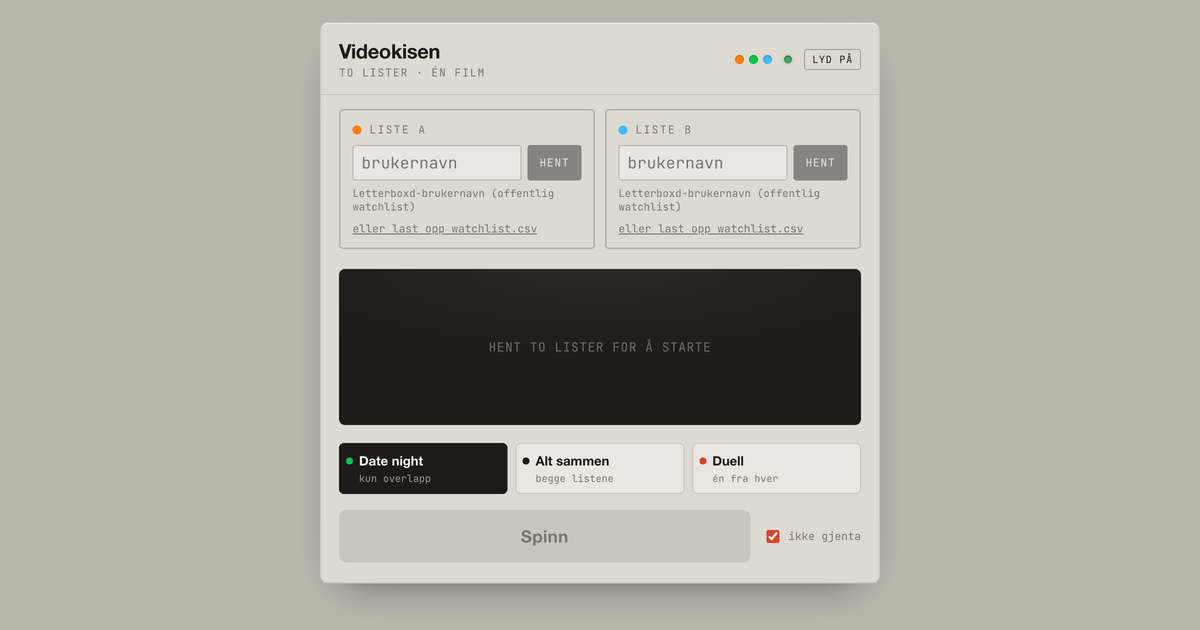
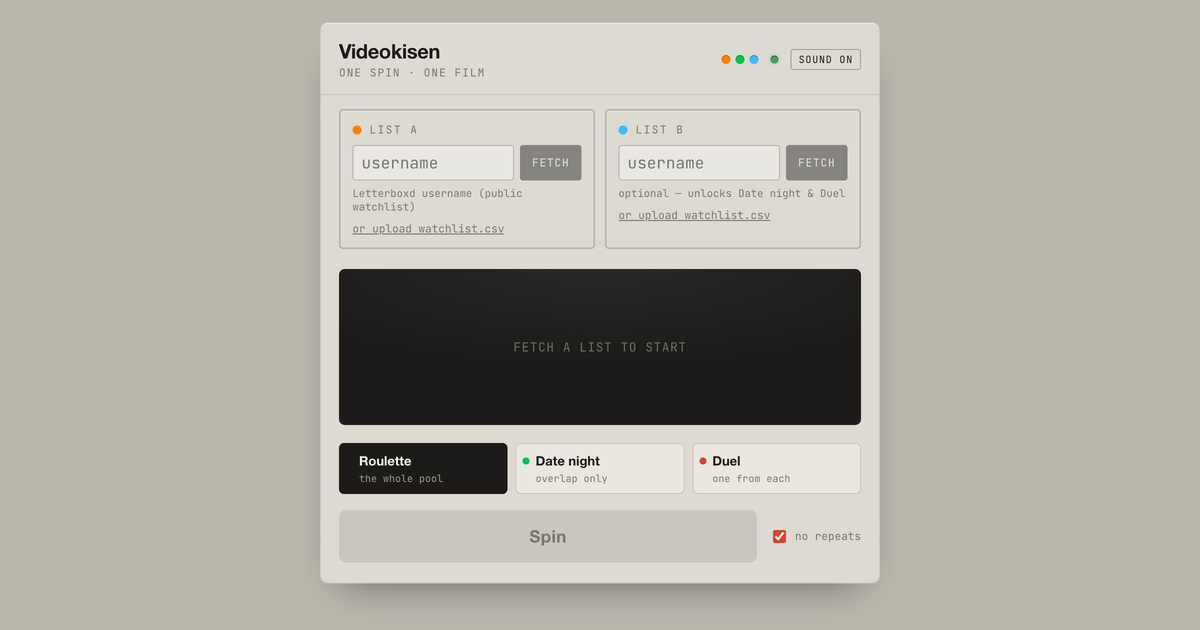
Solo-first: Roulette as default mode, English UI
One list is enough now — Roulette spins the whole pool, List B is
optional and unlocks Date night & Duel. All user-facing text in English.

Claude-Session: https://claude.ai/code/session_018GrJaCkjdkrhe63Qq38Shp

diff --git a/src/App.jsx b/src/App.jsx
@@ -22,12 +22,12 @@ const MONO = "'SF Mono','JetBrains Mono',ui-monospace,Menlo,Consolas,monospace";
 const GROTESK = "'Helvetica Neue','Inter',Helvetica,Arial,sans-serif";
 
 const MODES = [
-  { id: "date", label: "Date night", sub: "kun overlapp", dot: GREEN },
-  { id: "all", label: "Alt sammen", sub: "begge listene", dot: INK },
-  { id: "duell", label: "Duell", sub: "én fra hver", dot: RED },
+  { id: "all", label: "Roulette", sub: "the whole pool", dot: INK },
+  { id: "date", label: "Date night", sub: "overlap only", dot: GREEN },
+  { id: "duell", label: "Duel", sub: "one from each", dot: RED },
 ];
 
-const DEFAULT_PERSON = { a: "Deg", b: "Kjæresten" };
+const DEFAULT_PERSON = { a: "You", b: "Partner" };
 const EMPTY_SLOT = { films: [], filename: "", username: "", total: 0 };
 
 const saved = loadState();
@@ -57,7 +57,7 @@ function Dot({ c }) {
 
 /* ── liste-slot: brukernavn primært, CSV som fallback ─────────── */
 
-function UploadSlot({ side, slot, accent, fetching, error, onFile, onFetch, onPersonChange, onClear }) {
+function UploadSlot({ side, slot, accent, optional, fetching, error, onFile, onFetch, onPersonChange, onClear }) {
   const fileRef = useRef(null);
   const [drag, setDrag] = useState(false);
   const [uname, setUname] = useState(slot.username || "");
@@ -95,7 +95,7 @@ function UploadSlot({ side, slot, accent, fetching, error, onFile, onFetch, onPe
           <input
             value={slot.person}
             onChange={(e) => onPersonChange(e.target.value)}
-            aria-label="Navn"
+            aria-label="Name"
             style={{
               fontFamily: GROTESK, fontSize: 16, fontWeight: 600, color: INK,
               background: "transparent", border: "none", borderBottom: "1px dashed rgba(28,27,25,0.25)",
@@ -103,20 +103,20 @@ function UploadSlot({ side, slot, accent, fetching, error, onFile, onFetch, onPe
             }}
           />
           <div style={{ fontFamily: MONO, fontSize: 12, color: DIM, marginTop: 4 }}>
-            {slot.films.length} filmer · {slot.username ? `@${slot.username}` : slot.filename}
+            {slot.films.length} films · {slot.username ? `@${slot.username}` : slot.filename}
           </div>
           {slot.total > slot.films.length && (
             <div style={{ fontFamily: MONO, fontSize: 11, color: RED, marginTop: 2 }}>
-              hentet {slot.films.length} av {slot.total}
+              fetched {slot.films.length} of {slot.total}
             </div>
           )}
           <div style={{ display: "flex", gap: 6, marginTop: 8 }}>
             {slot.username && (
               <button className="press" onClick={() => onFetch(slot.username)} disabled={fetching} style={{ ...ghostBtn, opacity: fetching ? 0.5 : 1 }}>
-                {fetching ? "henter…" : "oppdater"}
+                {fetching ? "fetching…" : "refresh"}
               </button>
             )}
-            <button className="press" onClick={onClear} style={ghostBtn}>bytt</button>
+            <button className="press" onClick={onClear} style={ghostBtn}>change</button>
           </div>
         </div>
       ) : (
@@ -128,11 +128,11 @@ function UploadSlot({ side, slot, accent, fetching, error, onFile, onFetch, onPe
             <input
               value={uname}
               onChange={(e) => setUname(e.target.value)}
-              placeholder="brukernavn"
+              placeholder="username"
               autoCapitalize="none"
               autoCorrect="off"
               spellCheck={false}
-              aria-label="Letterboxd-brukernavn"
+              aria-label="Letterboxd username"
               style={{
                 flex: 1, minWidth: 0, fontFamily: MONO, fontSize: 16, color: INK,
                 background: "rgba(255,255,255,0.35)", border: "1px solid rgba(28,27,25,0.25)",
@@ -148,17 +148,19 @@ function UploadSlot({ side, slot, accent, fetching, error, onFile, onFetch, onPe
                 padding: "6px 11px", opacity: fetching || !uname.trim() ? 0.45 : 1,
               }}
             >
-              {fetching ? "…" : "hent"}
+              {fetching ? "…" : "fetch"}
             </button>
           </form>
           <div style={{ fontFamily: MONO, fontSize: 10.5, color: DIM, marginTop: 6 }}>
-            Letterboxd-brukernavn (offentlig watchlist)
+            {optional
+              ? "optional — unlocks Date night & Duel"
+              : "Letterboxd username (public watchlist)"}
           </div>
           <button
             onClick={() => fileRef.current && fileRef.current.click()}
             style={{ ...linkBtn, color: DIM, fontSize: 11, marginTop: 8 }}
           >
-            eller last opp watchlist.csv
+            or upload watchlist.csv
           </button>
         </div>
       )}
@@ -230,7 +232,7 @@ function DuelWindow({ label, accent, film, rolling, isWinner, isLoser, flashing 
           fontFamily: MONO, fontSize: 12, fontWeight: 700, letterSpacing: "0.2em",
           padding: "3px 0 2px", background: "rgba(28,27,25,0.85)", width: 92, textAlign: "center",
         }}>
-          VINNER
+          WINNER
         </div>
       )}
     </div>
@@ -242,7 +244,7 @@ function DuelWindow({ label, accent, film, rolling, isWinner, isLoser, flashing 
 export default function Videokisen() {
   const [a, setA] = useState(() => ({ ...EMPTY_SLOT, person: DEFAULT_PERSON.a, ...(saved?.a || {}) }));
   const [b, setB] = useState(() => ({ ...EMPTY_SLOT, person: DEFAULT_PERSON.b, ...(saved?.b || {}) }));
-  const [mode, setMode] = useState(saved?.mode || "date");
+  const [mode, setMode] = useState(saved?.mode || "all");
   const [noRepeat, setNoRepeat] = useState(saved?.noRepeat ?? true);
   const [soundOn, setSoundOn] = useState(saved?.soundOn ?? true);
   const [excluded, setExcluded] = useState(() => new Set(saved?.excluded || []));
@@ -371,7 +373,7 @@ export default function Videokisen() {
   const whose = useCallback((f) => {
     const inA = aKeys.has(keyOf(f));
     const inB = bKeys.has(keyOf(f));
-    if (inA && inB) return { label: "begge lister", color: GREEN };
+    if (inA && inB) return { label: "both lists", color: GREEN };
     if (inA) return { label: a.person, color: ORANGE };
     return { label: b.person, color: BLUE };
   }, [aKeys, bKeys, a.person, b.person]);
@@ -507,12 +509,12 @@ export default function Videokisen() {
   /* ── tekster for tomme tilstander ── */
 
   const emptyText = !oneLoaded
-    ? "HENT TO LISTER FOR Å STARTE"
+    ? "FETCH A LIST TO START"
     : !bothLoaded && mode !== "all"
-      ? "MANGLER ÉN LISTE"
+      ? "ADD A SECOND LIST FOR THIS MODE"
       : mode === "date" && overlap.length === 0
-        ? "INGEN FELLES FILMER — PRØV ALT SAMMEN"
-        : "ALT I POTTEN ER SETT — NULLSTILL?";
+        ? "NO SHARED FILMS — TRY ROULETTE"
+        : "EVERYTHING'S BEEN SEEN — RESET?";
 
   const shown = displays[0] || picks[0];
   const landed = picks[0] && !spinning;
@@ -540,7 +542,7 @@ export default function Videokisen() {
           <div>
             <div style={{ fontSize: 20, fontWeight: 700, letterSpacing: "-0.015em" }}>Videokisen</div>
             <div style={{ fontFamily: MONO, fontSize: 11, color: DIM, letterSpacing: "0.1em", marginTop: 2 }}>
-              TO LISTER · ÉN FILM
+              ONE SPIN · ONE FILM
             </div>
           </div>
           <div style={{ display: "flex", alignItems: "center", gap: 12 }}>
@@ -554,7 +556,7 @@ export default function Videokisen() {
               aria-pressed={soundOn}
               style={{ ...ghostBtn, fontSize: 10, padding: "3px 7px", color: soundOn ? INK : DIM }}
             >
-              lyd {soundOn ? "på" : "av"}
+              sound {soundOn ? "on" : "off"}
             </button>
           </div>
         </div>
@@ -562,13 +564,13 @@ export default function Videokisen() {
         {/* Innmating */}
         <div className="slots" style={{ padding: "14px 18px" }}>
           <UploadSlot
-            side="Liste A" slot={a} accent={ORANGE}
+            side="List A" slot={a} accent={ORANGE}
             fetching={fetching.a} error={errors.a}
             onFile={loadInto("a")} onFetch={fetchInto("a")}
             onPersonChange={setPerson("a")} onClear={clearSlot("a")}
           />
           <UploadSlot
-            side="Liste B" slot={b} accent={BLUE}
+            side="List B" slot={b} accent={BLUE} optional
             fetching={fetching.b} error={errors.b}
             onFile={loadInto("b")} onFetch={fetchInto("b")}
             onPersonChange={setPerson("b")} onClear={clearSlot("b")}
@@ -581,12 +583,12 @@ export default function Videokisen() {
             display: "flex", gap: 18, padding: "0 18px 12px",
             fontFamily: MONO, fontSize: 11.5, color: DIM, flexWrap: "wrap",
           }}>
-            <span><b style={{ color: INK }}>{overlap.length}</b> overlapp</span>
-            <span><b style={{ color: INK }}>{union.length}</b> til sammen</span>
+            {bothLoaded && <span><b style={{ color: INK }}>{overlap.length}</b> overlap</span>}
+            <span><b style={{ color: INK }}>{union.length}</b> {bothLoaded ? "combined" : "films"}</span>
             {noRepeat && excluded.size > 0 && (
               <span>
-                <b style={{ color: INK }}>{excluded.size}</b> sett ·{" "}
-                <button onClick={resetExcluded} style={linkBtn}>nullstill</button>
+                <b style={{ color: INK }}>{excluded.size}</b> seen ·{" "}
+                <button onClick={resetExcluded} style={linkBtn}>reset</button>
               </span>
             )}
           </div>
@@ -625,7 +627,7 @@ export default function Videokisen() {
                   textAlign: "center", fontFamily: MONO, fontSize: 11.5, color: RED,
                   letterSpacing: "0.14em", marginTop: 10, fontWeight: 700,
                 }}>
-                  SKJEBNE · SAMME FILM PÅ BEGGE LISTENE
+                  FATE · SAME FILM ON BOTH LISTS
                 </div>
               )}
             </div>
@@ -663,10 +665,12 @@ export default function Videokisen() {
                     const w = whose(picks[0]);
                     return (
                       <div style={{ marginTop: 14, display: "flex", gap: 12, alignItems: "center", justifyContent: "center" }}>
-                        <span style={{ display: "inline-flex", alignItems: "center", gap: 6, fontFamily: MONO, fontSize: 11, color: "#b9b7ae" }}>
-                          <span style={{ width: 8, height: 8, borderRadius: "50%", background: w.color }} />
-                          {w.label}
-                        </span>
+                        {bothLoaded && (
+                          <span style={{ display: "inline-flex", alignItems: "center", gap: 6, fontFamily: MONO, fontSize: 11, color: "#b9b7ae" }}>
+                            <span style={{ width: 8, height: 8, borderRadius: "50%", background: w.color }} />
+                            {w.label}
+                          </span>
+                        )}
                         {picks[0].uri && (
                           <a href={picks[0].uri} target="_blank" rel="noreferrer"
                             style={{ fontFamily: MONO, fontSize: 11, color: BLUE, textDecoration: "none", borderBottom: `1px solid ${BLUE}` }}>
@@ -679,7 +683,7 @@ export default function Videokisen() {
                 </div>
               ) : (
                 <span style={{ color: "#6f6d67", fontFamily: MONO, fontSize: 12.5, letterSpacing: "0.06em" }}>
-                  KLAR · TRYKK SPINN
+                  READY · PRESS SPIN
                 </span>
               )}
             </div>
@@ -688,7 +692,7 @@ export default function Videokisen() {
 
         {/* skjermleser: annonser resultatet */}
         <div aria-live="polite" style={{ position: "absolute", width: 1, height: 1, overflow: "hidden", clipPath: "inset(50%)" }}>
-          {chosenFilm ? `Valgt film: ${chosenFilm.name} ${chosenFilm.year}` : ""}
+          {chosenFilm ? `Chosen film: ${chosenFilm.name} ${chosenFilm.year}` : ""}
         </div>
 
         {/* Modus */}
@@ -728,7 +732,7 @@ export default function Videokisen() {
                 fontFamily: MONO, fontSize: 12, fontWeight: 700, letterSpacing: "0.16em",
                 boxShadow: "0 2px 0 rgba(0,0,0,0.22)",
               }}>
-              {deciding ? "AVGJØR…" : "LA MASKINEN AVGJØRE"}
+              {deciding ? "DECIDING…" : "LET THE MACHINE DECIDE"}
             </button>
           )}
 
@@ -745,18 +749,18 @@ export default function Videokisen() {
                 fontFamily: GROTESK, fontSize: 17, fontWeight: 700, letterSpacing: "0.02em",
                 boxShadow: !canSpin ? "none" : "0 2px 0 rgba(0,0,0,0.25), 0 1px 0 rgba(255,255,255,0.22) inset",
               }}>
-              {spinning ? "spinner…" : picks[0] ? "Spinn på nytt" : "Spinn"}
+              {spinning ? "spinning…" : picks[0] ? "Spin again" : "Spin"}
             </button>
 
             {chosenFilm && !spinning && !deciding && (
               <button className="press" onClick={markWatched} style={{ ...ghostBtn, padding: "13px 14px", fontSize: 11 }}>
-                sett den ✓
+                seen it ✓
               </button>
             )}
 
             <label style={{ display: "flex", alignItems: "center", gap: 6, cursor: "pointer", fontFamily: MONO, fontSize: 11, color: DIM }}>
               <input type="checkbox" checked={noRepeat} onChange={(e) => setNoRepeat(e.target.checked)} style={{ accentColor: RED }} />
-              ikke gjenta
+              no repeats
             </label>
           </div>
         </div>

diff --git a/src/lib/letterboxd.js b/src/lib/letterboxd.js
@@ -49,10 +49,10 @@ export async function fetchWatchlist(username) {
 }
 
 export const FETCH_ERRORS = {
-  bad_user: "Det ser ikke ut som et Letterboxd-brukernavn",
-  not_found: "Fant ingen bruker med det navnet",
-  empty: "Watchlisten er tom eller privat",
-  blocked: "Letterboxd svarte ikke — last opp CSV i stedet",
-  unknown: "Noe gikk galt — prøv igjen, eller last opp CSV",
-  csv_empty: "Fant ingen filmer i fila. Er det watchlist.csv fra Letterboxd-eksporten?",
+  bad_user: "That doesn't look like a Letterboxd username",
+  not_found: "No user with that name",
+  empty: "That watchlist is empty or private",
+  blocked: "Letterboxd didn't answer — upload the CSV instead",
+  unknown: "Something went wrong — try again, or upload the CSV",
+  csv_empty: "No films in that file. Is it watchlist.csv from the Letterboxd export?",
 };

diff --git a/index.html b/index.html
@@ -1,16 +1,16 @@
 <!doctype html>
-<html lang="no">
+<html lang="en">
   <head>
     <meta charset="UTF-8" />
     <meta name="viewport" content="width=device-width, initial-scale=1.0" />
     <meta name="theme-color" content="#B9B6AC" />
     <title>Videokisen</title>
-    <meta name="description" content="To watchlister inn, én film ut. Hent Letterboxd-listene deres og la maskinen velge kveldens film." />
+    <meta name="description" content="One spin, one film. Roulette for your Letterboxd watchlist — solo, or add a second list for date night." />
     <link rel="icon" type="image/svg+xml" href="/favicon.svg" />
     <link rel="apple-touch-icon" href="/apple-touch-icon.png" />
     <link rel="manifest" href="/manifest.webmanifest" />
     <meta property="og:title" content="Videokisen" />
-    <meta property="og:description" content="To watchlister inn, én film ut." />
+    <meta property="og:description" content="One spin, one film. Roulette for your Letterboxd watchlist." />
     <meta property="og:type" content="website" />
     <meta property="og:url" content="https://videokisen.vercel.app/" />
     <meta property="og:image" content="https://videokisen.vercel.app/og.png" />